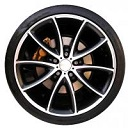
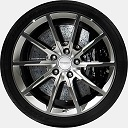
versão com texturas(algumas) no robot, feitas para testar se estava tudo a funcionar

diff --git a/projeto/MyScene.js b/projeto/MyScene.js
@@ -71,118 +71,113 @@ MyScene.prototype.init = function(application) {
     // Robot Appearance List Elements Terminator
 
     var robotHeadAppearance0 = new CGFappearance(this);
-    robotHeadAppearance0.setAmbient(0.5, 0.5, 0.5, 1);
-    robotHeadAppearance0.setDiffuse(0.3, 0.3, 0.3, 1);
-    robotHeadAppearance0.setSpecular(0.15, 0.15, 0.15, 1);
-    robotHeadAppearance0.setShininess(2.5);
-    robotHeadAppearance0.loadTexture('resources/images/carpetTexture.jpg');
-    robotHeadAppearance0.setTextureWrap('REPEAT', 'REPEAT');
+    robotHeadAppearance0.setAmbient(0.5, 0.2, 0, 1);
+    robotHeadAppearance0.setDiffuse(0.6, 0.3, 0, 1);
+    robotHeadAppearance0.setSpecular(0.7, 0.4, 0, 1);
+    robotHeadAppearance0.setShininess(10);
+    //robotHeadAppearance0.loadTexture('resources/images/robotBodyTERM.jpg');
+    //robotHeadAppearance0.setTextureWrap('REPEAT', 'REPEAT');
 
     var robotBodyBaseAppearance0 = new CGFappearance(this);
     robotBodyBaseAppearance0.setAmbient(0.5, 0.5, 0.5, 1);
     robotBodyBaseAppearance0.setDiffuse(0.3, 0.3, 0.3, 1);
     robotBodyBaseAppearance0.setSpecular(0.15, 0.15, 0.15, 1);
-    robotBodyBaseAppearance0.setShininess(2.5);
-    robotBodyBaseAppearance0.loadTexture('resources/images/floor.jpg');
+    robotBodyBaseAppearance0.setShininess(10);
+    robotBodyBaseAppearance0.loadTexture('resources/images/robotBodyTERM.jpg');
     robotBodyBaseAppearance0.setTextureWrap('REPEAT', 'REPEAT');
 
     var robotBodyLateralFacesAppearance0 = new CGFappearance(this);
     robotBodyLateralFacesAppearance0.setAmbient(0.5, 0.5, 0.5, 1);
     robotBodyLateralFacesAppearance0.setDiffuse(0.3, 0.3, 0.3, 1);
     robotBodyLateralFacesAppearance0.setSpecular(0.15, 0.15, 0.15, 1);
-    robotBodyLateralFacesAppearance0.setShininess(2.5);
-    robotBodyLateralFacesAppearance0.loadTexture('resources/images/floor.jpg');
+    robotBodyLateralFacesAppearance0.setShininess(10);
+    robotBodyLateralFacesAppearance0.loadTexture('resources/images/robotBodyTERM.jpg');
     robotBodyLateralFacesAppearance0.setTextureWrap('REPEAT', 'REPEAT');
 
     var robotArmsBaseAppearance0 = new CGFappearance(this);
-    robotArmsBaseAppearance0.setAmbient(0.5, 0.5, 0.5, 1);
-    robotArmsBaseAppearance0.setDiffuse(0.3, 0.3, 0.3, 1);
-    robotArmsBaseAppearance0.setSpecular(0.15, 0.15, 0.15, 1);
-    robotArmsBaseAppearance0.setShininess(2.5);
+    robotArmsBaseAppearance0.setAmbient(0.4, 0, 0, 1);
+    robotArmsBaseAppearance0.setDiffuse(0.5, 0, 0, 1);
+    robotArmsBaseAppearance0.setSpecular(0.7, 0, 0, 1);
+    robotArmsBaseAppearance0.setShininess(10);
     //robotArmsBaseAppearance0.loadTexture('resources/images/floor.jpg');
-    robotArmsBaseAppearance0.setTextureWrap('REPEAT', 'REPEAT');
+    //robotArmsBaseAppearance0.setTextureWrap('REPEAT', 'REPEAT');
 
     var robotArmsLateralFacesAppearance0 = new CGFappearance(this);
-    robotArmsLateralFacesAppearance0.setAmbient(0.5, 0.5, 0.5, 1);
-    robotArmsLateralFacesAppearance0.setDiffuse(0.3, 0.3, 0.3, 1);
-    robotArmsLateralFacesAppearance0.setSpecular(0.15, 0.15, 0.15, 1);
-    robotArmsLateralFacesAppearance0.setShininess(2.5);
+    robotArmsLateralFacesAppearance0.setAmbient(0, 0, 0.5, 1);
+    robotArmsLateralFacesAppearance0.setDiffuse(0, 0, 0.6, 1);
+    robotArmsLateralFacesAppearance0.setSpecular(0, 0, 0.7, 1);
+    robotArmsLateralFacesAppearance0.setShininess(10);
     //robotArmsLateralFacesAppearance0.loadTexture('resources/images/floor.jpg');
-    robotArmsLateralFacesAppearance0.setTextureWrap('REPEAT', 'REPEAT');
+    //robotArmsLateralFacesAppearance0.setTextureWrap('REPEAT', 'REPEAT');
 
     var robotWheelsBaseAppearance0 = new CGFappearance(this);
     robotWheelsBaseAppearance0.setAmbient(0.5, 0.5, 0.5, 1);
     robotWheelsBaseAppearance0.setDiffuse(0.3, 0.3, 0.3, 1);
     robotWheelsBaseAppearance0.setSpecular(0.15, 0.15, 0.15, 1);
     robotWheelsBaseAppearance0.setShininess(2.5);
-    //robotWheelsBaseAppearance0.loadTexture('resources/images/floor.jpg');
-    robotWheelsBaseAppearance0.setTextureWrap('REPEAT', 'REPEAT');
+    robotWheelsBaseAppearance0.loadTexture('resources/images/robotWheelsTERM.jpg');
+    robotWheelsBaseAppearance0.setTextureWrap('CLAMP_TO_EDGE', 'CLAMP_TO_EDGE');
 
     var robotWheelsLateralFacesAppearance0 = new CGFappearance(this);
-    robotWheelsLateralFacesAppearance0.setAmbient(0.5, 0.5, 0.5, 1);
-    robotWheelsLateralFacesAppearance0.setDiffuse(0.3, 0.3, 0.3, 1);
-    robotWheelsLateralFacesAppearance0.setSpecular(0.15, 0.15, 0.15, 1);
-    robotWheelsLateralFacesAppearance0.setShininess(2.5);
-    //robotWheelsLateralFacesAppearance0.loadTexture('resources/images/floor.jpg');
-    robotWheelsLateralFacesAppearance0.setTextureWrap('REPEAT', 'REPEAT');
+    robotWheelsLateralFacesAppearance0.setAmbient(0, 0, 0, 1);
+    robotWheelsLateralFacesAppearance0.setDiffuse(0, 0, 0, 1);
+    robotWheelsLateralFacesAppearance0.setSpecular(0, 0, 0, 1);
+    robotWheelsLateralFacesAppearance0.setShininess(1);
 
     // Robot Appearance List Elements Lord of the Rings
-
     var robotHeadAppearance1 = new CGFappearance(this);
-    robotHeadAppearance1.setAmbient(0.5, 0.5, 0.5, 1);
-    robotHeadAppearance1.setDiffuse(0.3, 0.3, 0.3, 1);
-    robotHeadAppearance1.setSpecular(0.15, 0.15, 0.15, 1);
-    robotHeadAppearance1.setShininess(2.5);
-    //robotHeadAppearance1.loadTexture('resources/images/carpetTexture.jpg');
-    robotHeadAppearance1.setTextureWrap('REPEAT', 'REPEAT');
+    robotHeadAppearance1.setAmbient(0, 0.2, 0, 1);
+    robotHeadAppearance1.setDiffuse(0, 0.3, 0, 1);
+    robotHeadAppearance1.setSpecular(0, 0.4, 0, 1);
+    robotHeadAppearance1.setShininess(10);
 
     var robotBodyBaseAppearance1 = new CGFappearance(this);
-    robotBodyBaseAppearance1.setAmbient(0.5, 0.5, 0.5, 1);
-    robotBodyBaseAppearance1.setDiffuse(0.3, 0.3, 0.3, 1);
-    robotBodyBaseAppearance1.setSpecular(0.15, 0.15, 0.15, 1);
-    robotBodyBaseAppearance1.setShininess(2.5);
+    robotBodyBaseAppearance1.setAmbient(0.2, 0.3, 0.3, 1);
+    robotBodyBaseAppearance1.setDiffuse(0.3, 0.4, 0.4, 1);
+    robotBodyBaseAppearance1.setSpecular(0.4, 0.5, 0.5, 1);
+    robotBodyBaseAppearance1.setShininess(10);
     //robotBodyBaseAppearance1.loadTexture('resources/images/carpetTexture.jpg');
-    robotBodyBaseAppearance1.setTextureWrap('REPEAT', 'REPEAT');
+    //robotBodyBaseAppearance1.setTextureWrap('REPEAT', 'REPEAT');
 
     var robotBodyLateralFacesAppearance1 = new CGFappearance(this);
-    robotBodyLateralFacesAppearance1.setAmbient(0.5, 0.5, 0.5, 1);
-    robotBodyLateralFacesAppearance1.setDiffuse(0.3, 0.3, 0.3, 1);
-    robotBodyLateralFacesAppearance1.setSpecular(0.15, 0.15, 0.15, 1);
-    robotBodyLateralFacesAppearance1.setShininess(2.5);
-    robotBodyLateralFacesAppearance1.loadTexture('resources/images/carpetTexture.jpg');
-    robotBodyLateralFacesAppearance1.setTextureWrap('REPEAT', 'REPEAT');
+    robotBodyLateralFacesAppearance1.setAmbient(0.2, 0.6, 0.3, 1);
+    robotBodyLateralFacesAppearance1.setDiffuse(0.3, 0.7, 0.4, 1);
+    robotBodyLateralFacesAppearance1.setSpecular(0.4, 0.8, 0.5, 1);
+    robotBodyLateralFacesAppearance1.setShininess(10);
+    //robotBodyLateralFacesAppearance1.loadTexture('resources/images/carpetTexture.jpg');
+    //robotBodyLateralFacesAppearance1.setTextureWrap('REPEAT', 'REPEAT');
 
     var robotArmsBaseAppearance1 = new CGFappearance(this);
-    robotArmsBaseAppearance1.setAmbient(0.5, 0.5, 0.5, 1);
-    robotArmsBaseAppearance1.setDiffuse(0.3, 0.3, 0.3, 1);
-    robotArmsBaseAppearance1.setSpecular(0.15, 0.15, 0.15, 1);
-    robotArmsBaseAppearance1.setShininess(2.5);
-    robotArmsBaseAppearance1.loadTexture('resources/images/carpetTexture.jpg');
-    robotArmsBaseAppearance1.setTextureWrap('REPEAT', 'REPEAT');
+    robotArmsBaseAppearance1.setAmbient(0.6, 0, 0.1, 1);
+    robotArmsBaseAppearance1.setDiffuse(0.7, 0, 0.2, 1);
+    robotArmsBaseAppearance1.setSpecular(0.8, 0, 0.3, 1);
+    robotArmsBaseAppearance1.setShininess(10);
+    //robotArmsBaseAppearance1.loadTexture('resources/images/carpetTexture.jpg');
+    //robotArmsBaseAppearance1.setTextureWrap('REPEAT', 'REPEAT');
 
     var robotArmsLateralFacesAppearance1 = new CGFappearance(this);
-    robotArmsLateralFacesAppearance1.setAmbient(0.5, 0.5, 0.5, 1);
-    robotArmsLateralFacesAppearance1.setDiffuse(0.3, 0.3, 0.3, 1);
-    robotArmsLateralFacesAppearance1.setSpecular(0.15, 0.15, 0.15, 1);
-    robotArmsLateralFacesAppearance1.setShininess(2.5);
-    robotArmsLateralFacesAppearance1.loadTexture('resources/images/carpetTexture.jpg');
-    robotArmsLateralFacesAppearance1.setTextureWrap('REPEAT', 'REPEAT');
+    robotArmsLateralFacesAppearance1.setAmbient(0.7, 0.3, 0.6, 1);
+    robotArmsLateralFacesAppearance1.setDiffuse(0.8, 0.4, 0.6, 1);
+    robotArmsLateralFacesAppearance1.setSpecular(0.9, 0.5, 0.6, 1);
+    robotArmsLateralFacesAppearance1.setShininess(10);
+    //robotArmsLateralFacesAppearance1.loadTexture('resources/images/carpetTexture.jpg');
+    //robotArmsLateralFacesAppearance1.setTextureWrap('REPEAT', 'REPEAT');
 
     var robotWheelsBaseAppearance1 = new CGFappearance(this);
-    robotWheelsBaseAppearance1.setAmbient(0.5, 0.5, 0.5, 1);
+    robotWheelsBaseAppearance1.setAmbient(0.2, 0.2, 0.2, 1);
     robotWheelsBaseAppearance1.setDiffuse(0.3, 0.3, 0.3, 1);
-    robotWheelsBaseAppearance1.setSpecular(0.15, 0.15, 0.15, 1);
-    robotWheelsBaseAppearance1.setShininess(2.5);
+    robotWheelsBaseAppearance1.setSpecular(0.4, 0.4, 0.4, 1);
+    robotWheelsBaseAppearance1.setShininess(10);
     //robotWheelsBaseAppearance1.loadTexture('resources/images/carpetTexture.jpg');
-    robotWheelsBaseAppearance1.setTextureWrap('REPEAT', 'REPEAT');
+    //robotWheelsBaseAppearance1.setTextureWrap('REPEAT', 'REPEAT');
 
     var robotWheelsLateralFacesAppearance1 = new CGFappearance(this);
     robotWheelsLateralFacesAppearance1.setAmbient(0.5, 0.5, 0.5, 1);
     robotWheelsLateralFacesAppearance1.setDiffuse(0.3, 0.3, 0.3, 1);
     robotWheelsLateralFacesAppearance1.setSpecular(0.15, 0.15, 0.15, 1);
-    robotWheelsLateralFacesAppearance1.setShininess(2.5);
+    robotWheelsLateralFacesAppearance1.setShininess(10);
     //robotWheelsLateralFacesAppearance1.loadTexture('resources/images/carpetTexture.jpg');
-    robotWheelsLateralFacesAppearance1.setTextureWrap('REPEAT', 'REPEAT');
+    //robotWheelsLateralFacesAppearance1.setTextureWrap('REPEAT', 'REPEAT');
 
     /** End of Robot Appearances **/
 
@@ -227,18 +222,14 @@ MyScene.prototype.init = function(application) {
                 maxLateralFacesT: 3
             },
             wheels: {
-                slices: 10,
+                slices: 25,
                 stacks: 10,
                 baseAppearance: robotWheelsBaseAppearance0,
                 lateralFacesAppearance: robotWheelsLateralFacesAppearance0,
                 minBaseS: 0,
-                maxBaseS: 2,
+                maxBaseS: 1,
                 mindBaseT: 0,
-                maxBaseT: 2,
-                minLateralFacesS: 0,
-                maxLateralFacesS: 3,
-                minLateralFacesT: 0,
-                maxLateralFacesT: 3
+                maxBaseT: 1,
             }
         }
     this.robotAppearances['Lord of the Rings'] =

diff --git a/projeto/MyRobot.js b/projeto/MyRobot.js
@@ -23,7 +23,7 @@ function MyRobot(scene, robotAppearanceList) {
 
     this.leftArm = new MyCylinder(
         this.scene, robotAppearanceList.arms.slices, robotAppearanceList.arms.stacks,
-        robotAppearanceList.arms.baseAppearance, undefined, robotAppearanceList.lateralFacesAppearance,
+        robotAppearanceList.arms.baseAppearance, undefined, robotAppearanceList.arms.lateralFacesAppearance,
         robotAppearanceList.arms.minBaseS, robotAppearanceList.arms.maxBaseS, robotAppearanceList.arms.minBaseT, robotAppearanceList.arms.maxBaseT,
         robotAppearanceList.arms.minBaseS, robotAppearanceList.arms.maxBaseS, robotAppearanceList.arms.minBaseT, robotAppearanceList.arms.maxBaseT,
         robotAppearanceList.arms.minLateralFacesS, robotAppearanceList.arms.maxLateralFacesS, robotAppearanceList.arms.minLateralFacesT, robotAppearanceList.arms.maxLateralFacesT);
@@ -32,7 +32,7 @@ function MyRobot(scene, robotAppearanceList) {
 
     this.leftWheel = new MyCylinder(
         this.scene, robotAppearanceList.wheels.slices, robotAppearanceList.wheels.stacks,
-        robotAppearanceList.wheels.baseAppearance, undefined, robotAppearanceList.lateralFacesAppearance,
+        robotAppearanceList.wheels.baseAppearance, undefined, robotAppearanceList.wheels.lateralFacesAppearance,
         robotAppearanceList.wheels.minBaseS, robotAppearanceList.wheels.maxBaseS, robotAppearanceList.wheels.minBaseT, robotAppearanceList.wheels.maxBaseT,
         robotAppearanceList.wheels.minBaseS, robotAppearanceList.wheels.maxBaseS, robotAppearanceList.wheels.minBaseT, robotAppearanceList.wheels.maxBaseT,
         robotAppearanceList.wheels.minLateralFacesS, robotAppearanceList.wheels.maxLateralFacesS, robotAppearanceList.wheels.minLateralFacesT, robotAppearanceList.wheels.maxLateralFacesT);

diff --git a/projeto/MyInterface.js b/projeto/MyInterface.js
@@ -90,7 +90,7 @@ MyInterface.prototype.init = function(application) {
         this.scene,
         'currRobotAppearance',
         appearancesNames
-    ).name('texture').onChange(
+    ).name('Texture').onChange(
         function() {
             var scene = this.object;
             scene.robot.setAppearance(scene.robotAppearances[scene.currRobotAppearance]);
